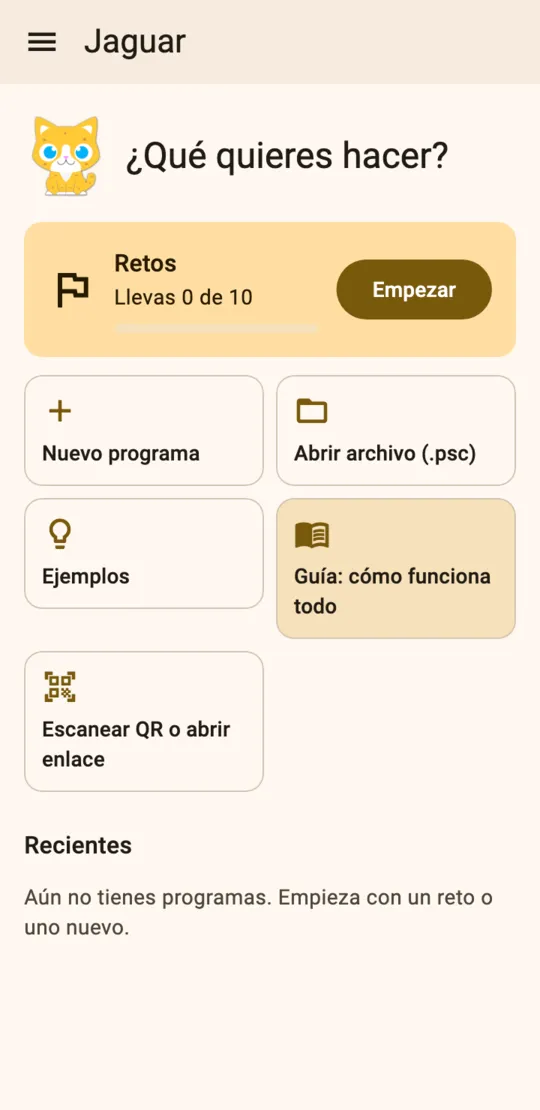
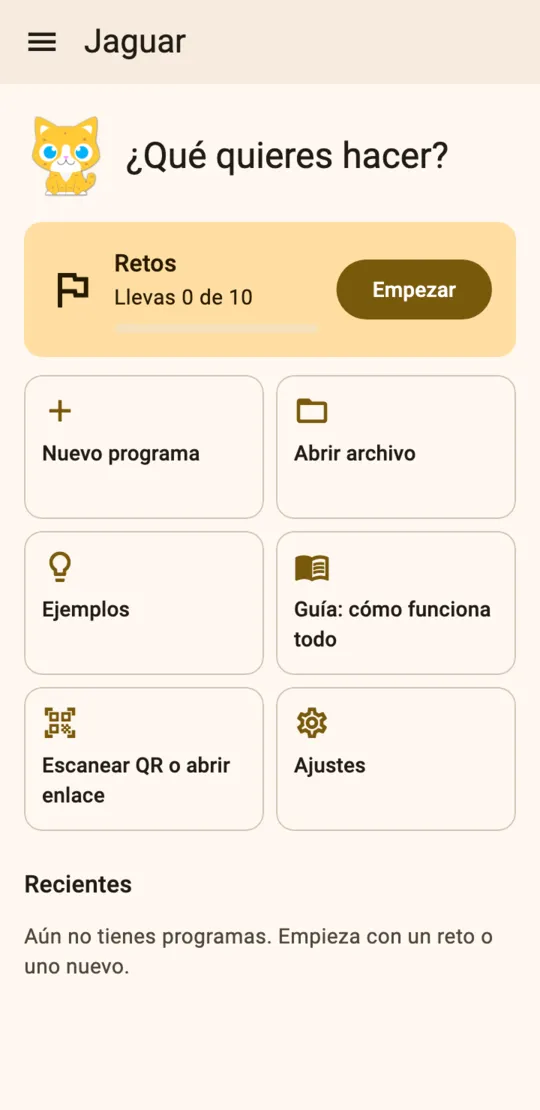
Igualados los botones del inicio

Changed region(s): [[0.0296, 0.3982, 0.9778, 0.8883], [0.4741, 0.6126, 0.6815, 0.7351], [0.9481, 0.6432, 0.9778, 0.7351]]

diff --git a/apps/jaguar/lib/src/workspace/start_panel.dart b/apps/jaguar/lib/src/workspace/start_panel.dart
@@ -25,6 +25,7 @@ class StartPanel extends StatelessWidget {
     this.onScan,
     this.onOpenTeacher,
     required this.onOpenGuide,
+    required this.onOpenSettings,
   });
 
   final ViewSettings settings;
@@ -47,6 +48,7 @@ class StartPanel extends StatelessWidget {
 
   /// The user guide: how everything in Jaguar works.
   final VoidCallback onOpenGuide;
+  final VoidCallback onOpenSettings;
 
   @override
   Widget build(BuildContext context) {
@@ -69,10 +71,10 @@ class StartPanel extends StatelessWidget {
           onSeeAll: onOpenChallenges,
         );
         final actions = <Widget>[
-          _ActionTile(icon: Icons.add, label: 'Nuevo programa', onTap: onNew, primary: !basic),
+          _ActionTile(icon: Icons.add, label: 'Nuevo programa', onTap: onNew),
           _ActionTile(
             icon: Icons.folder_open_outlined,
-            label: 'Abrir archivo (.psc)',
+            label: 'Abrir archivo',
             tooltip: 'También abre archivos de otros programas de pseudocódigo',
             onTap: onOpenFile,
           ),
@@ -81,13 +83,13 @@ class StartPanel extends StatelessWidget {
             icon: Icons.menu_book_outlined,
             label: 'Guía: cómo funciona todo',
             onTap: onOpenGuide,
-            primary: basic,
           ),
           _ActionTile(
             icon: onScan == null ? Icons.link : Icons.qr_code_scanner,
             label: onScan == null ? 'Abrir enlace' : 'Escanear QR o abrir enlace',
             onTap: onScan == null ? onOpenLink : () => _scanOrLink(context),
           ),
+          _ActionTile(icon: Icons.settings_outlined, label: 'Ajustes', onTap: onOpenSettings),
         ];
 
         return Align(
@@ -115,14 +117,31 @@ class StartPanel extends StatelessWidget {
                   const SizedBox(height: 12),
                 ],
                 if (basic) ...[challengesCard, const SizedBox(height: 12)],
+                // One size for every tile: same width in a grid, same height
+                // (growing with the system font size).
                 LayoutBuilder(
                   builder: (context, constraints) {
-                    final columns = constraints.maxWidth >= 480 ? 4 : 2;
-                    final width = (constraints.maxWidth - 8 * (columns - 1)) / columns;
-                    return Wrap(
-                      spacing: 8,
-                      runSpacing: 8,
-                      children: [for (final action in actions) SizedBox(width: width, child: action)],
+                    // Six tiles: two columns on a phone, three when there is room.
+                    final columns = constraints.maxWidth >= 480 ? 3 : 2;
+                    final height = 96 * MediaQuery.textScalerOf(context).scale(1).clamp(1.0, 2.0);
+                    return Column(
+                      children: [
+                        for (var start = 0; start < actions.length; start += columns)
+                          Padding(
+                            padding: EdgeInsets.only(top: start == 0 ? 0 : 8),
+                            child: SizedBox(
+                              height: height,
+                              child: Row(
+                                children: [
+                                  for (var i = start; i < start + columns; i++) ...[
+                                    if (i > start) const SizedBox(width: 8),
+                                    Expanded(child: i < actions.length ? actions[i] : const SizedBox.shrink()),
+                                  ],
+                                ],
+                              ),
+                            ),
+                          ),
+                      ],
                     );
                   },
                 ),
@@ -305,19 +324,18 @@ class _TeacherCard extends StatelessWidget {
 }
 
 class _ActionTile extends StatelessWidget {
-  const _ActionTile({required this.icon, required this.label, required this.onTap, this.tooltip, this.primary = false});
+  const _ActionTile({required this.icon, required this.label, required this.onTap, this.tooltip});
 
   final IconData icon;
   final String label;
   final VoidCallback onTap;
   final String? tooltip;
-  final bool primary;
 
   @override
   Widget build(BuildContext context) {
     final scheme = Theme.of(context).colorScheme;
     final tile = Material(
-      color: primary ? scheme.secondaryContainer : scheme.surface,
+      color: scheme.surface,
       shape: RoundedRectangleBorder(
         borderRadius: BorderRadius.circular(12),
         side: BorderSide(color: scheme.outlineVariant),
@@ -325,17 +343,21 @@ class _ActionTile extends StatelessWidget {
       clipBehavior: Clip.antiAlias,
       child: InkWell(
         onTap: onTap,
-        child: ConstrainedBox(
-          constraints: const BoxConstraints(minHeight: 72),
+        child: SizedBox.expand(
           child: Padding(
             padding: const EdgeInsets.all(12),
             child: Column(
-              mainAxisAlignment: MainAxisAlignment.center,
+              mainAxisAlignment: MainAxisAlignment.start,
               crossAxisAlignment: CrossAxisAlignment.start,
               children: [
                 Icon(icon, color: scheme.primary),
                 const SizedBox(height: 6),
-                Text(label, style: Theme.of(context).textTheme.labelLarge),
+                Text(
+                  label,
+                  maxLines: 2,
+                  overflow: TextOverflow.ellipsis,
+                  style: Theme.of(context).textTheme.labelLarge,
+                ),
               ],
             ),
           ),

diff --git a/apps/jaguar/test/arranque_test.dart b/apps/jaguar/test/arranque_test.dart
@@ -94,7 +94,10 @@ void main() {
       await tester.pumpAndSettle();
       await tester.tap(find.byTooltip('Eliminar'));
       await tester.pumpAndSettle();
-      expect(find.text('Es tu único programa. Después verás el inicio para empezar otro. Las copias guardadas no cambian.'), findsOneWidget);
+      expect(
+        find.text('Es tu único programa. Después verás el inicio para empezar otro. Las copias guardadas no cambian.'),
+        findsOneWidget,
+      );
       await tester.tap(find.text('Eliminar').last);
       await tester.pumpAndSettle();
 
@@ -117,6 +120,23 @@ void main() {
       expect(find.text('Empezar'), findsOneWidget);
       expect(find.text('Aún no tienes programas. Empieza con un reto o uno nuevo.'), findsOneWidget);
       expect(find.byType(NavigationBar), findsNothing);
+    });
+
+    testWidgets('los botones del inicio miden lo mismo, también con letra grande', (tester) async {
+      await _pumpPhone(tester, values: {'jaguar.view.mode': 'basic', 'jaguar.programs': '[]'}, textScale: 1.3);
+      final tiles = [
+        for (final label in [
+          'Nuevo programa',
+          'Abrir archivo',
+          'Ejemplos',
+          'Guía: cómo funciona todo',
+          'Ajustes',
+          if (find.text('Abrir enlace').evaluate().isNotEmpty) 'Abrir enlace' else 'Escanear QR o abrir enlace',
+        ])
+          tester.getSize(find.ancestor(of: find.text(label), matching: find.byType(InkWell)).first),
+      ];
+      expect(tiles.map((t) => t.height).toSet(), hasLength(1), reason: '$tiles');
+      expect(tiles.map((t) => t.width).toSet(), hasLength(1), reason: '$tiles');
     });
 
     testWidgets('la barra tiene tres controles y el cambio de vista tiene texto', (tester) async {
@@ -181,11 +201,7 @@ void main() {
       await tester.tap(find.text('Empezar desde cero'));
       await tester.pumpAndSettle();
       // Four small ideas first, then the balloons.
-      for (final title in [
-        'Mostrar, preguntar y guardar',
-        'Código o diagrama: tú eliges',
-        'Cómo sabes si está bien',
-      ]) {
+      for (final title in ['Mostrar, preguntar y guardar', 'Código o diagrama: tú eliges', 'Cómo sabes si está bien']) {
         await tester.tap(find.text('Siguiente'));
         await tester.pumpAndSettle();
         expect(find.text(title), findsOneWidget);
@@ -366,7 +382,9 @@ void main() {
     });
 
     testWidgets('con animaciones desactivadas todo aparece igual', (tester) async {
-      tester.platformDispatcher.accessibilityFeaturesTestValue = const FakeAccessibilityFeatures(disableAnimations: true);
+      tester.platformDispatcher.accessibilityFeaturesTestValue = const FakeAccessibilityFeatures(
+        disableAnimations: true,
+      );
       addTearDown(tester.platformDispatcher.clearAllTestValues);
       await openChallenge(tester);
       final editor = find.descendant(of: find.byType(CodeEditor), matching: find.byType(TextField)).first;

diff --git a/apps/jaguar/lib/src/workspace/workspace_screen.dart b/apps/jaguar/lib/src/workspace/workspace_screen.dart
@@ -1448,6 +1448,7 @@ class _WorkspaceScreenState extends State<WorkspaceScreen> {
       onScan: canScanQr ? wrap(_scanQr) : null,
       onOpenTeacher: _settings.teacher ? wrap(_openTeacher) : null,
       onOpenGuide: wrap(_showGuide),
+      onOpenSettings: wrap(_openSettings),
     );
   }
 
